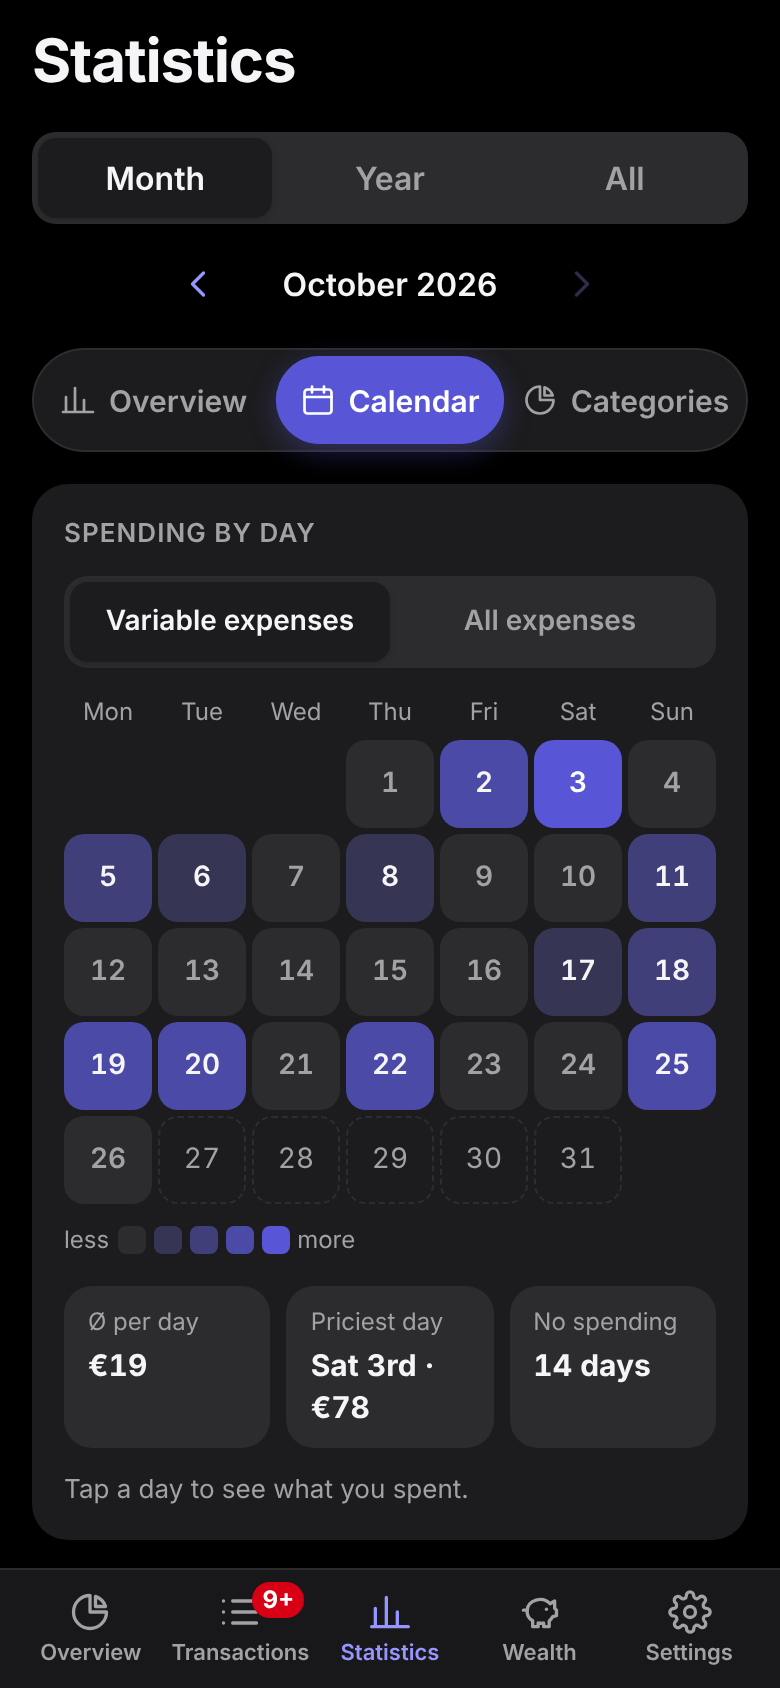
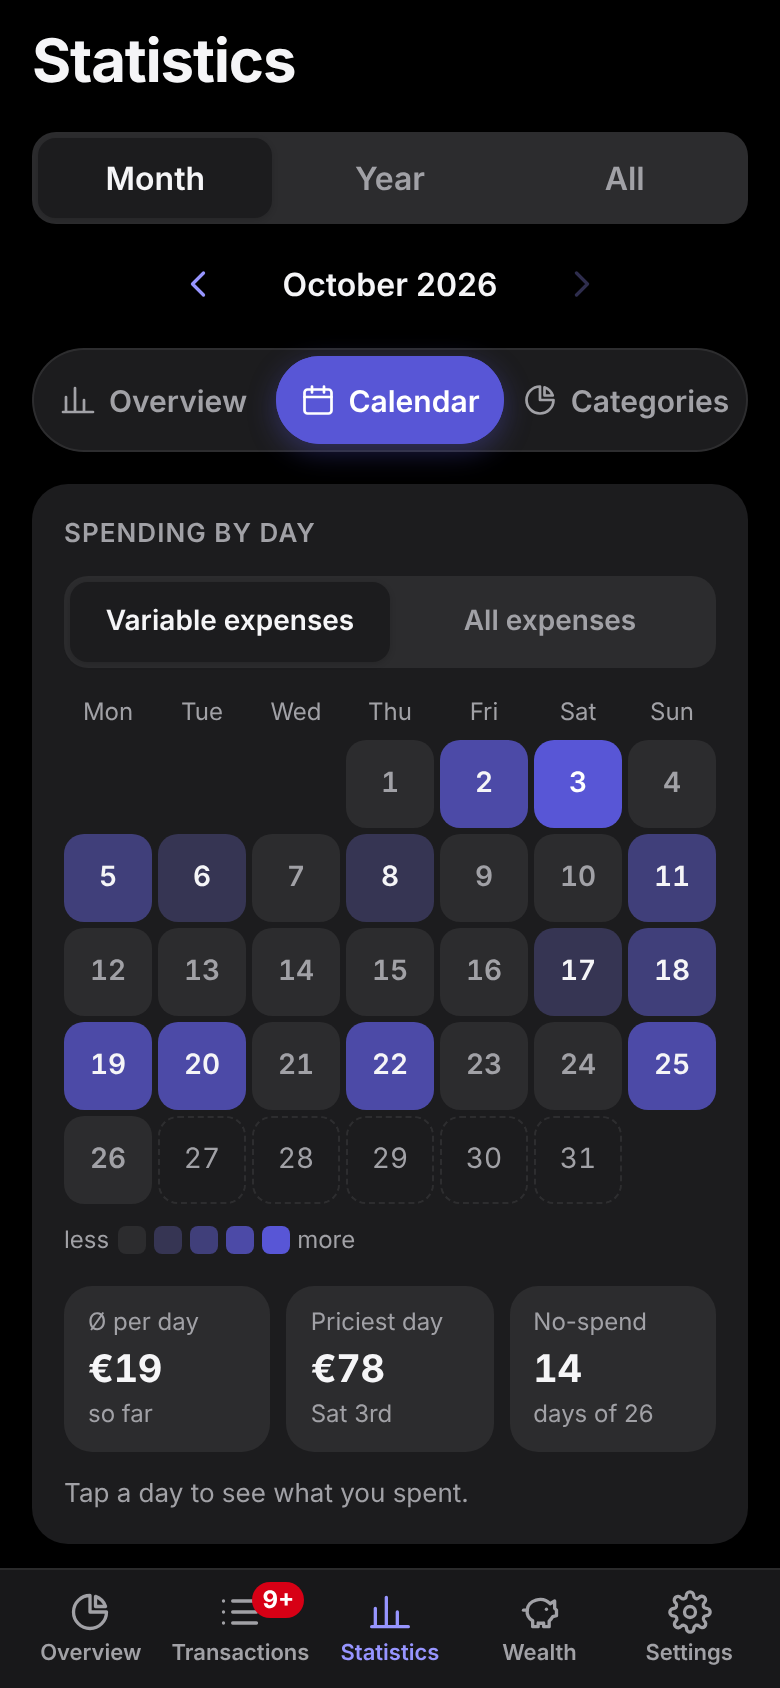
Calendar facts: big number, detail below (1.16.1)
Claude-Session: https://claude.ai/code/session_01QAm8hbi2NbAH5nWhDhnN4o

Changed region(s): [[0.0923, 0.8009, 0.5846, 0.8934], [0.6769, 0.7701, 0.8615, 0.8626]]

diff --git a/web/app-stats.js b/web/app-stats.js
@@ -152,9 +152,9 @@ function heatCard(p, value) {
     const top = past.reduce((a, d) => (!a || d.cents > a.cents ? d : a), null);
     const free = past.filter((d) => !d.cents).length;
     const facts = past.length ? `<div class="heat-facts">
-        <div><span>${t("Ø pro Tag")}</span><b>${fmt0(h.total / past.length)}</b></div>
-        <div><span>${t("Teuerster Tag")}</span><b>${top && top.cents ? `${WEEKDAYS[new Date(top.iso + "T12:00:00").getDay()]} ${ord(top.day)} · ${fmt0(top.cents)}` : "–"}</b></div>
-        <div><span>${t("Ohne Ausgaben")}</span><b>${tn(free, "{n} Tag", "{n} Tage")}</b></div>
+        <div><span>${t("Ø pro Tag")}</span><b>${fmt0(h.total / past.length)}</b><small>${t("bis heute")}</small></div>
+        <div><span>${t("Teuerster Tag")}</span><b>${top && top.cents ? fmt0(top.cents) : "–"}</b><small>${top && top.cents ? `${WEEKDAYS[new Date(top.iso + "T12:00:00").getDay()]} ${ord(top.day)}` : "&nbsp;"}</small></div>
+        <div><span>${t("Ausgabenfrei")}</span><b>${free}</b><small>${tn(free, "Tag", "Tage")} ${t("von {n}", { n: past.length })}</small></div>
       </div>` : "";
     return `<section class="card heat">
       <h2>${t("Ausgaben nach Tag")}</h2>

diff --git a/web/styles.css b/web/styles.css
@@ -982,5 +982,5 @@ button.hm:active { transform: scale(0.94); }
 @media (max-width: 360px) { .sec-tabs button .ic { display: none; } }
 .heat-facts { display: grid; grid-template-columns: repeat(3, minmax(0, 1fr)); gap: 8px; margin-top: 14px; }
 .heat-facts > div { background: var(--surface-2); border-radius: 14px; padding: 10px 12px; min-width: 0; }
-.heat-facts span { display: block; font-size: 12px; color: var(--muted); }
-.heat-facts b { display: block; font-size: 15px; margin-top: 2px; font-variant-numeric: tabular-nums; }
+.heat-facts span, .heat-facts small { display: block; font-size: 12px; color: var(--muted); white-space: nowrap; overflow: hidden; text-overflow: ellipsis; }
+.heat-facts b { display: block; font-size: 19px; font-weight: 700; margin: 2px 0 1px; font-variant-numeric: tabular-nums; letter-spacing: -0.01em; }

diff --git a/web/i18n.js b/web/i18n.js
@@ -255,7 +255,11 @@
     "Bereich der Statistik": "Statistics section",
     "Ø pro Tag": "Ø per day",
     "Teuerster Tag": "Priciest day",
-    "Ohne Ausgaben": "No spending",
+    "Ausgabenfrei": "No-spend",
+    "bis heute": "so far",
+    "von {n}": "of {n}",
+    "Tag": "day",
+    "Tage": "days",
     "noch {n} Tag": "{n} day left",
     "noch {n} Tage": "{n} days left",
     "Stand": "Balance",

diff --git a/web/app.js b/web/app.js
@@ -5,7 +5,7 @@
 
 // Version dieser App-Dateien (gleich wie __version__ in app/__init__.py). Weicht die
 // Version des Servers ab, zeigt das Handy noch eine zwischengespeicherte Fassung.
-const APP_VERSION = "1.16.0";
+const APP_VERSION = "1.16.1";
 const A = window.Analytics;
 const { t, tn, ord, locale } = window.I18N;
 

diff --git a/app/__init__.py b/app/__init__.py
@@ -2,4 +2,4 @@
 
 # Bei jeder Änderung, die auf den Pi geht, erhöhen (1.0.0 -> 1.0.1 für Korrekturen,
 # 1.1.0 für Neues). Dieselbe Nummer steht als APP_VERSION in web/app.js (Test prüft das).
-__version__ = "1.16.0"
+__version__ = "1.16.1"
